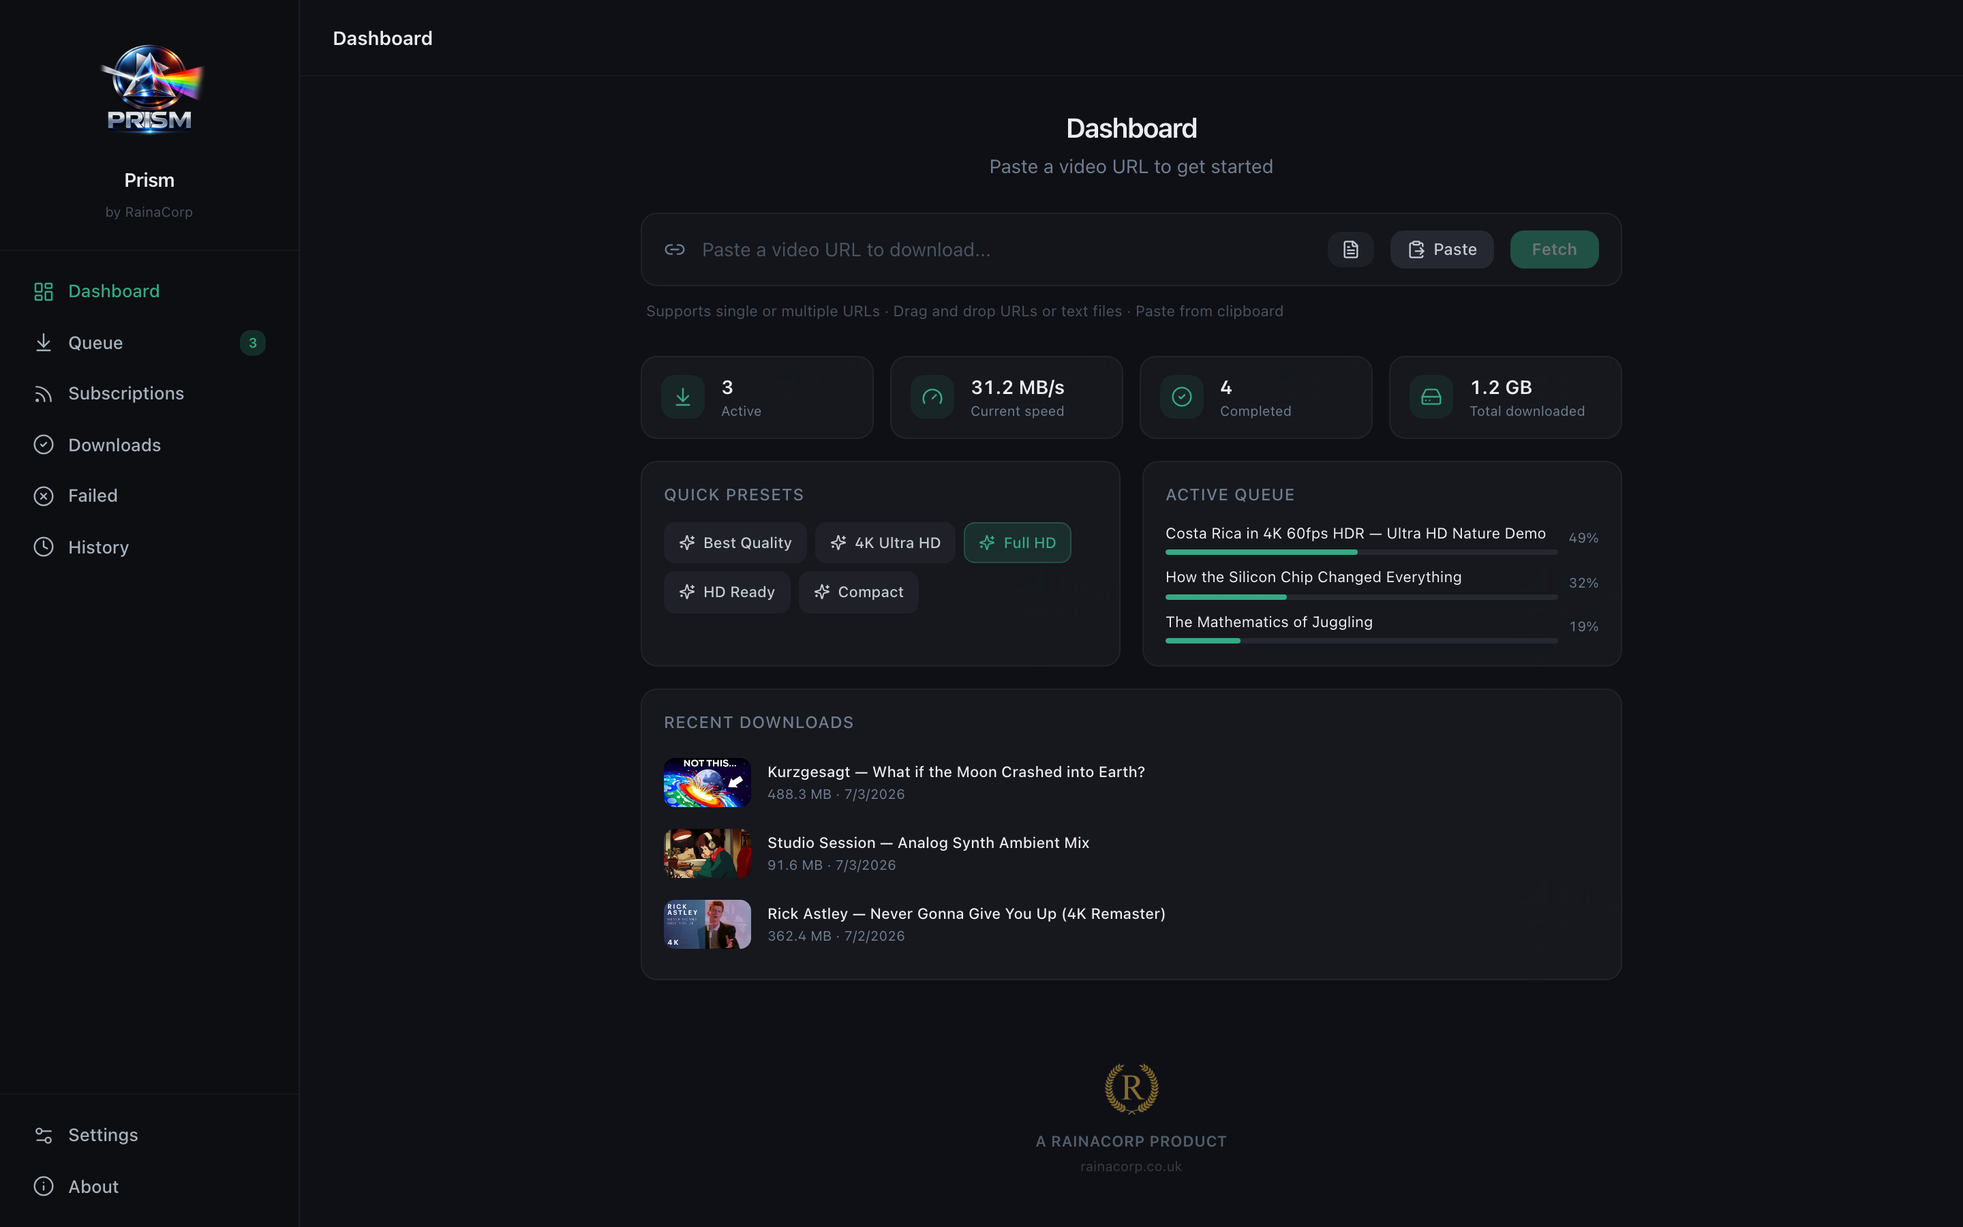
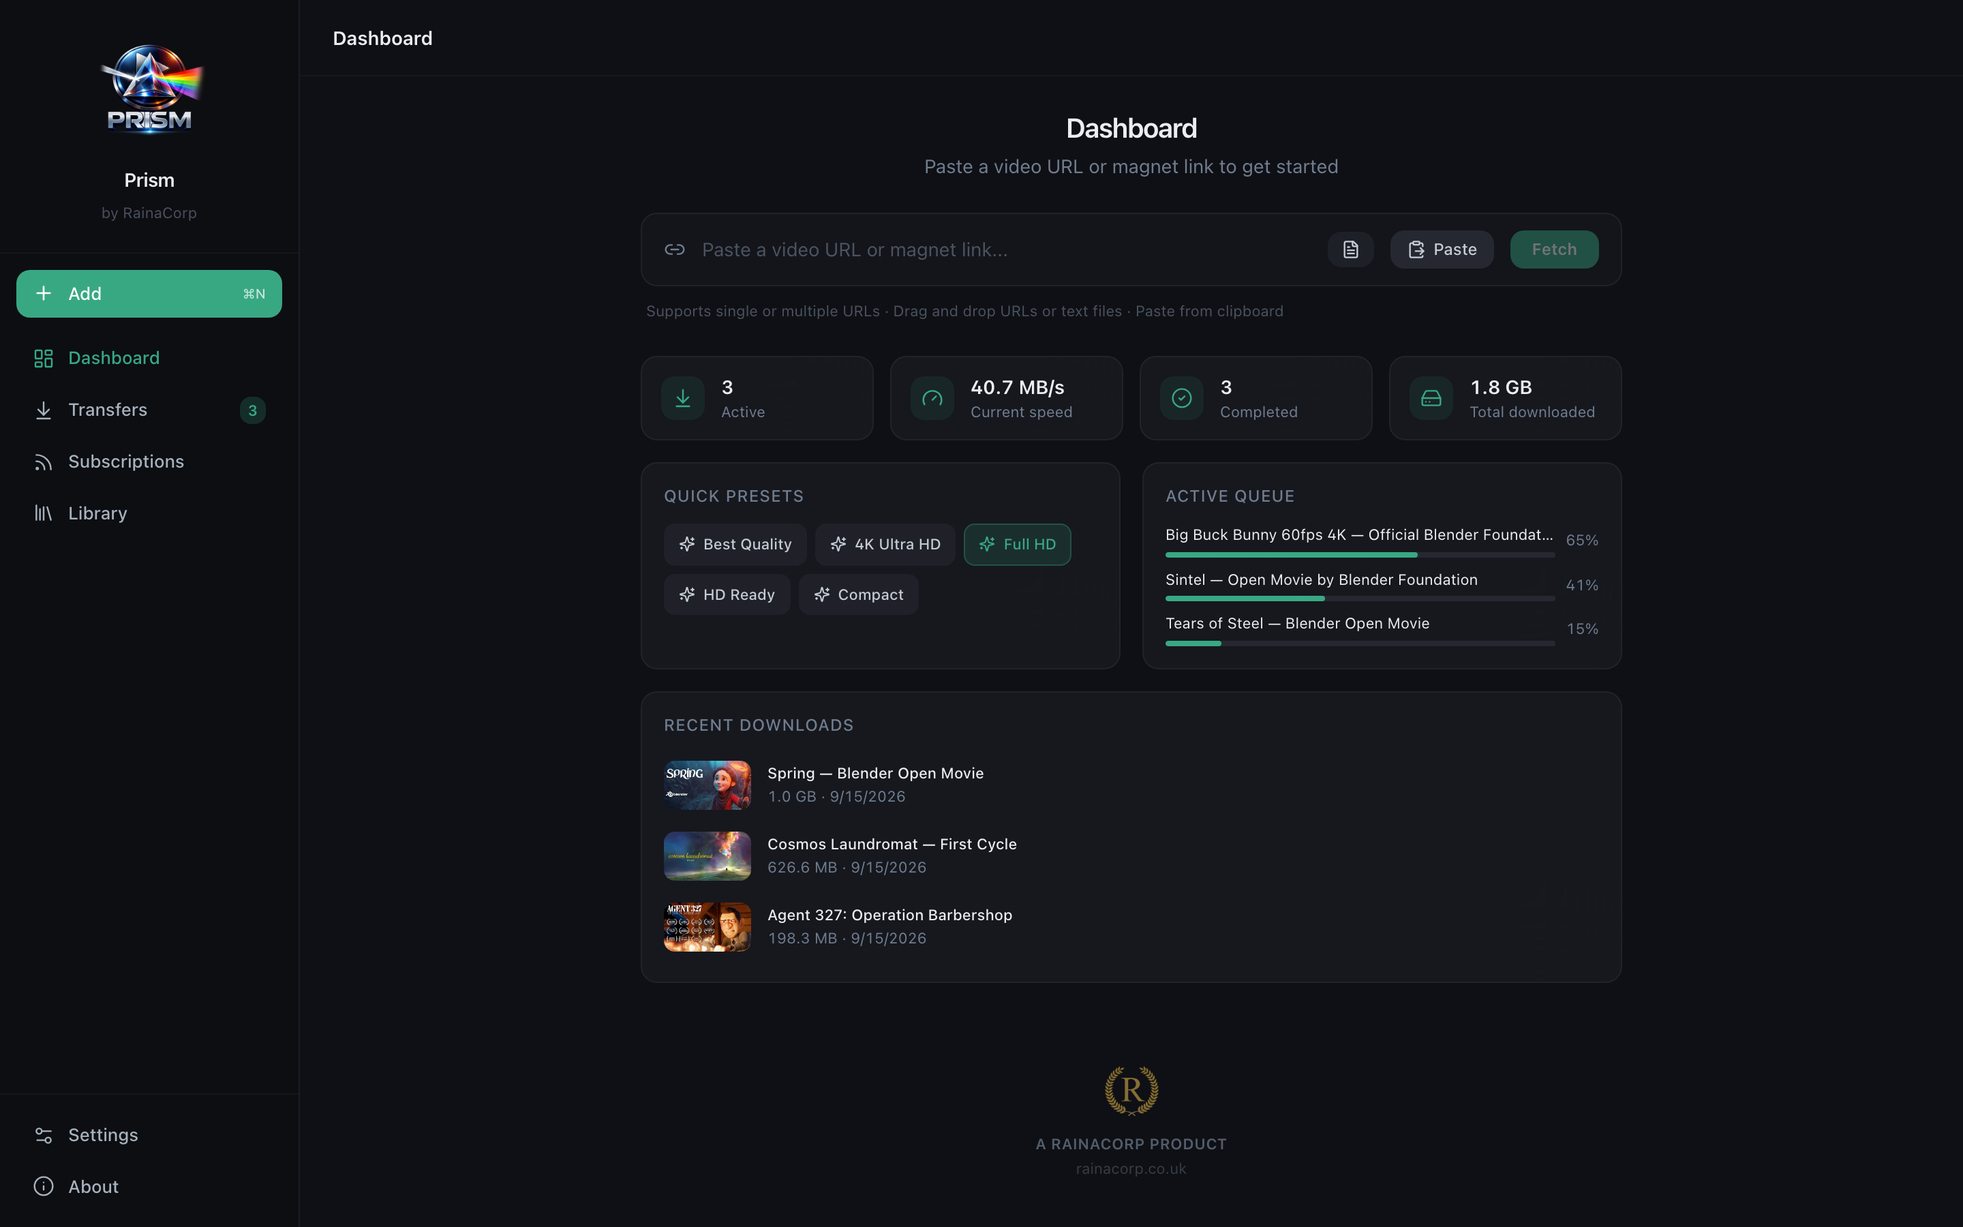
Release 1.9.0: notes, docs, screenshots, rustls advisory
- RELEASE_NOTES.md for 1.9.0; README features, test commands, security link.
- ROADMAP: v1.9 shipped; review doc statuses (S-1/2/6/7/8/9/10 fixed, S-13
  already covered, S-14 not an issue).
- README screenshots regenerated with scripts/readme-screenshots.mjs.
- rustls 0.23.44 → 0.23.45 (RUSTSEC-2026-0285).
- Version 1.9.0.

diff --git a/RELEASE_NOTES.md b/RELEASE_NOTES.md
@@ -5,46 +5,68 @@ in-app updater notes. This comment block is invisible in rendered markdown.
 -->
 ## What's New
 
-A fix release for two bugs found in real use of 1.8.0, plus a few small
-hardening items from the follow-up review (`docs/REVIEW-2026-09-14.md`).
+**Updates work again on networks that block part of GitHub.** If Settings said
+"Could not reach update server" while GitHub worked fine in your browser, the
+updater was stuck waiting on one unreachable GitHub server. It never tried the
+others. It now moves on after a few seconds, and Settings shows the real error
+if a check does fail. *Earlier versions have the bug, so download this release
+yourself* (`brew upgrade --cask prism`, or the files below). Later updates
+install from inside Prism again.
 
-**Finished downloads reach the Library again.** In 1.8.0 a download that
-completed while any other transfer was still running never moved to the
-Library — and since the Transfers page hides finished rows, it simply
-vanished. Anything stuck that way is archived on the first launch of this
-version.
+**One place to add anything.** An **Add** button sits at the top of the
+sidebar, and ⌘N or ⌘L opens it from any page. Paste video links and magnet
+links, open a `.torrent`, or import a list. You can also drop links, `.torrent`
+files or a text file of links anywhere in the window.
 
-**Multi-file torrents get their own folder.** A torrent without a root folder
-of its own (many episode and race packs) used to write its files straight into
-the download folder, so two packs with the same inner file names — for
-example `02.Race.Session.mp4` in two F1 weekends — wrote into the *same file*
-and corrupted each other. Every multi-file torrent now downloads into
-`<download folder>/<torrent name>/`, like every other client; single-file
-torrents are unchanged. Prism also refuses to add a torrent whose folder is in
-use by a different one.
+**Links from outside Prism ask first.** A `magnet:` or `prism://` link opened
+from a browser, or a `.torrent` opened from Finder or Explorer, now shows what
+it is and waits for **Add**. Nothing is fetched until you choose to. Pasting,
+the Add sheet and drag-and-drop still add straight away.
 
-> If you added multi-file torrents with 1.8.0: they will restart from scratch
-> into their new folders on relaunch. Delete the loose files they left in your
-> download folder by hand — don't use "Remove and delete files" on them, since
-> two such torrents share those files.
+**Failures tell you what to do.** A failed transfer shows the likely cause,
+the engine's own message on one line, and the fix. That's **Set browser
+cookies** for sign-in walls, or **Retry**. Link errors under the URL box and
+failed items in the Library work the same way.
 
-**Hardening.**
-- yt-dlp now runs with `--ignore-config --no-plugin-dirs`, so a config file or
-  plugin elsewhere on the machine can't change what Prism asked for.
-- "Open" and the player resolve symlinks *before* checking that a file is
-  media, so a link named `clip.mp4` can't smuggle in something else.
-- Dropping a link onto the URL box no longer submits it twice.
-- Light mode: status colours and sidebar hover states now have proper contrast.
-- Settings are written to disk 300 ms after the last change instead of on
-  every keystroke.
+**Settings, reorganised.** Settings are now grouped into Video, BitTorrent,
+Speed & schedule and Network. Rarely used torrent engine options sit behind
+"Show advanced settings". All three speed limits use MB/s. Terms like DHT,
+uTP, UPnP and share ratio are explained where they appear. New: **Use IPv4
+only** (on by default, as before).
 
-**Docs.** The README now states the ffmpeg requirement up front, and no longer
-claims an Intel macOS build (there is none; the Apple Silicon build is the
-only macOS build).
+**Quiet hours you can see.** A banner on the Dashboard and Transfers says when
+quiet hours end, and whether downloads are held or slowed. Held transfers say
+"Held for quiet hours" instead of "Waiting for a slot".
+
+**Big libraries stay fast.** The Library and the torrent and playlist pickers
+only draw the rows on screen, so thousands of entries scroll smoothly.
+
+**Accessibility.** Every setting is labelled for screen readers. The Transfers
+list works as a proper list with the keyboard, filter tabs are real tabs, and
+Reduce Motion is respected. Moving a row with its handle no longer also moves
+the selection.
+
+**Security hardening** from the September review:
+- Prism's window can only write its own settings, queue and history files.
+  The torrent session, cached `.torrent` files and the self-updated downloader
+  are out of its reach.
+- A self-updated yt-dlp is checked against the checksum recorded when it was
+  installed. *If you updated the engine in an earlier version, Prism uses the
+  bundled yt-dlp until you press **Update Engine** once more.*
+- Windows: the player loads its libraries only from Prism's own folder.
+- Limits on how many yt-dlp processes run at once and how much output Prism
+  keeps in memory.
+- System folders are blocked regardless of letter case on macOS and Windows.
+  On Linux, `~/bin` and launchers on the Desktop are blocked too.
+- Updated rustls for RUSTSEC-2026-0285.
+
+**Also:** a **Report a bug** link in About, clearer backend logs, and a smaller
+app: the logos went from 7 MB to under 100 KB, and unused interface code was
+removed.
 
 ## Install
 
-- **macOS:** `brew install --cask rajatraina747/prism/prism`, or download the
+- **macOS:** `brew install --cask rajatraina747/prism/prism` (or `brew upgrade --cask prism`), or download the
   `.dmg`. Not notarized: on macOS 15+ open the app once, then System Settings →
   Privacy & Security → **Open Anyway** (or `xattr -dr com.apple.quarantine /Applications/Prism.app`).
 - **Windows:** run the installer; click "More info → Run anyway" on the SmartScreen prompt.

diff --git a/docs/REVIEW-2026-09-14.md b/docs/REVIEW-2026-09-14.md
@@ -38,20 +38,20 @@ critical or remotely exploitable-without-user-action flaw.
 
 | # | Sev | Finding | Status |
 |---|-----|---------|--------|
-| S-1 | High (needs a webview compromise first) | librqbit `session.json` lives in `$APPDATA`, writable by the webview (`fs:allow-appdata-write-recursive`); persisted `output_folder` is re-added at startup with `overwrite: true`, bypassing the path validators. | Open (v1.9): relocate to the preference dir beside `allowed-dirs.json`, or narrow the fs capability to the four JSON files the frontend writes. |
-| S-2 | High on Windows / Medium elsewhere | Managed yt-dlp in `$APPDATA/engine` is preferred over the sidecar with no hash re-check; Windows needs no exec bit. | Open (v1.9): same relocation; re-verify SHA-256 at spawn. |
+| S-1 | High (needs a webview compromise first) | librqbit `session.json` lives in `$APPDATA`, writable by the webview (`fs:allow-appdata-write-recursive`); persisted `output_folder` is re-added at startup with `overwrite: true`, bypassing the path validators. | **Fixed 1.9.0**: the main window's fs capability allows only top-level `$APPDATA/*.json` reads and `*.json.tmp` writes/renames (no `fs:default`); enforced end to end by a mock-runtime IPC/ACL test. |
+| S-2 | High on Windows / Medium elsewhere | Managed yt-dlp in `$APPDATA/engine` is preferred over the sidecar with no hash re-check; Windows needs no exec bit. | **Fixed 1.9.0**: out of the webview's reach (S-1), and its SHA-256 is recorded at install and re-checked before use. |
 | S-3 | Medium | No `--ignore-config`/`--no-plugin-dirs` on yt-dlp calls; any config file could override the argv (`--exec`). | **Fixed 1.8.1** (`engine.rs` `LOCKDOWN_ARGS`). |
 | S-4 | Medium | `validate_open_path` canonicalised for containment but returned the original string; the media allowlist then checked a symlink's own name. | **Fixed 1.8.1** (returns the resolved path; test). |
 | S-5 | Medium | macOS libmpv/FFmpeg/x264/x265 still come from unpinned `brew install mpv` at build time. | Open: pin the bottle by SHA or ship the self-built LGPL mpv. |
-| S-6 | Medium | `magnet:` and `prism://add` deep links act with no confirmation: a web page can make Prism join a swarm or run yt-dlp with the user's cookies. | Open (v1.9): confirmation card for OS-originated links. |
-| S-7 | Medium (Windows) | Vendored mpv plugin falls back to a bare DLL name (CWD search). | Open (v1.9). |
-| S-8 | Low | No Rust-side cap on yt-dlp spawns; unbounded capture buffers. | Open (v1.9). |
-| S-9 | Low | Linux deny-list has no non-hidden entries; case-sensitive root compare. | Open (v1.9). |
-| S-10 | Low | `build.yml` `contents: write` on every job; minisign key unencrypted; no key backup/rotation doc. | Open (v1.9). |
+| S-6 | Medium | `magnet:` and `prism://add` deep links act with no confirmation: a web page can make Prism join a swarm or run yt-dlp with the user's cookies. | **Fixed 1.9.0**: OS-originated links wait on a confirmation card; nothing is fetched until Add. |
+| S-7 | Medium (Windows) | Vendored mpv plugin falls back to a bare DLL name (CWD search). | **Fixed 1.9.0**: no fallback; a missing or unloadable bundled libmpv is an error. |
+| S-8 | Low | No Rust-side cap on yt-dlp spawns; unbounded capture buffers. | **Fixed 1.9.0**: 6 lookups / 16 downloads; 64 MB stdout cap, 256 KB stderr tail. |
+| S-9 | Low | Linux deny-list has no non-hidden entries; case-sensitive root compare. | **Fixed 1.9.0**: `~/bin`, `~/Desktop/*.desktop`; case-insensitive on macOS/Windows. |
+| S-10 | Low | `build.yml` `contents: write` on every job; minisign key unencrypted; no key backup/rotation doc. | **Fixed 1.9.0** in the workflow and `docs/RELEASE-KEYS.md`; encrypting the key itself is a manual step (see that doc). |
 | S-11 | Low | `explorer /select,` built by concatenation with a torrent-controlled name. | Open. |
 | S-12 | Low | Raw yt-dlp stderr (cookie DB paths) returned verbatim as the error string. | Open. |
-| S-13 | Info | Release logs and `mpv.log` contain media paths; Privacy Policy silent on local logs. | Open (one sentence). |
-| S-14 | Info | `player` capability grants unused `dialog:default`. | Open. |
+| S-13 | Info | Release logs and `mpv.log` contain media paths; Privacy Policy silent on local logs. | Already covered: Privacy Policy → "What stays on your device" names both logs and says they can contain URLs and paths. |
+| S-14 | Info | `player` capability grants unused `dialog:default`. | Not an issue: the player window's "Open file" picker (`Player.tsx`) uses it. |
 | S-15 | Info | Updater has no downgrade protection. | Accepted. |
 
 Accepted carry-overs from September: proxy creds in argv/settings.json, PATH

diff --git a/ROADMAP.md b/ROADMAP.md
@@ -21,9 +21,9 @@ Full findings, verified against code and live data, in
 [docs/REVIEW-2026-09-14.md](docs/REVIEW-2026-09-14.md). The v1.8.1 hotfix
 (finished downloads not archived; flat multi-file torrents sharing one folder;
 yt-dlp config/plugin lockdown; symlink-safe Open; light-mode tokens; drop-once;
-settings debounce; README accuracy) is shipped. What remains, in order:
+settings debounce; README accuracy) is shipped, and so is v1.9.0 below.
 
-### v1.9 — "Trust & polish"
+### v1.9 — "Trust & polish" (shipped 1.9.0)
 
 - [x] Updater works on networks that black-hole one GitHub CDN address: the
       check/install run in Rust (`updater.rs`) with a connect timeout (hyper
@@ -56,17 +56,36 @@ settings debounce; README accuracy) is shipped. What remains, in order:
       hover) → "Set browser cookies" / Retry; failure toast carries the same
       action; parse errors under the URL box classified the same way;
       Settings opens at `?section=`.
-- [ ] UX ★: one "Add" surface (⌘N/⌘L sheet, drop-anywhere incl. magnets and
-      `.torrent`); Settings restructure (Video / BitTorrent / Speed & schedule
-      …, one speed-limit group, one unit, jargon tooltips); quiet-hours
-      banner; accessibility pass (labelled Settings controls, listbox
-      semantics, Radix tabs everywhere, reduced-motion); virtualize
-      Library/pickers and drop per-row `backdrop-filter`.
-- [ ] TypeScript `strict` + `strictNullChecks`; re-enable `no-unused-vars` /
-      `no-explicit-any`; Playwright in CI; `log::` coverage in the Rust
-      backend; `--force-ipv4` as a setting; WebP logos; prune unused
-      shadcn/Radix; refresh README screenshots; `SECURITY.md`, issue templates,
-      About → "Report a bug".
+- [x] One Add surface: sidebar button + ⌘N/⌘L sheet on every page (links,
+      magnets, "Open .torrent…", a list file); drops anywhere in the window
+      incl. `.torrent` files (bytes → `import_torrent_file` → cached magnet).
+- [x] Settings restructure: Video / BitTorrent / Speed & schedule / Network
+      as vertical Radix tabs, engine options behind "Show advanced", all
+      speed limits in MB/s, jargon help tooltips, old `?section=` aliases.
+- [x] Quiet-hours banner (Dashboard, Transfers) and "Held for quiet hours ·
+      until HH:00" on queued rows.
+- [x] Accessibility pass: every Settings control labelled/described by its
+      row; Transfers rows are listbox options with a roving tab stop; Radix
+      tabs for Transfers/Library filters; picker rows are checkboxes;
+      `prefers-reduced-motion`; reorder handle no longer also moves selection.
+- [x] Library and torrent/playlist pickers windowed past a threshold
+      (`VirtualList`, @tanstack/react-virtual); list rows drop
+      `backdrop-filter` (`surface-row`).
+- [x] TypeScript `strict`; `no-unused-vars` / `no-explicit-any` as errors;
+      Playwright (22 tests) in CI; `log::` coverage in the Rust backend;
+      "Use IPv4 only" setting; WebP logos (7.4 MB → 87 KB); 31 unused
+      shadcn components + 18 Radix packages removed; README screenshots
+      regenerated (`scripts/readme-screenshots.mjs`); `SECURITY.md` with
+      private vulnerability reporting enabled, issue templates, About →
+      "Report a bug".
+- [x] Verification added: the real capability driven through Tauri's IPC/ACL
+      (mock runtime) test; opt-in network test proving the updater's connect
+      timeout falls through a black-holed address; rustls → 0.23.45
+      (RUSTSEC-2026-0285, published the day before 1.9.0).
+
+Carried over from the review, still open: S-5 (pin Homebrew mpv), S-11
+(`explorer /select,` concatenation), S-12 (raw stderr in error strings —
+the UI now shows a one-line summary, the full text is still returned).
 
 ### v2.0 — "Download manager"
 
@@ -293,11 +312,10 @@ Everything below the line shipped in **v1.8.0**; what's left is open.
   carrying GPL x264/x265/rubberband (the player only decodes; nothing is
   lost). Until then the macOS binary is distributed under GPL-2.0-or-later
   terms with license texts + Homebrew source pointers shipped in-app.
-- [ ] Virtualize/paginate the Library once histories get long (2,000-row cap
-  today).
+- [x] Virtualize the Library (1.9.0; the 2,000-row history cap stays).
 - [ ] Spawn yt-dlp in its own process group (`tokio::process` +
   `process_group`) instead of the `ps`-snapshot tree kill.
-- [ ] Run the Playwright suite in CI against the web demo.
+- [x] Run the Playwright suite in CI against the web demo (1.9.0).
 
 ## Explicitly deferred
 

diff --git a/README.md b/README.md
@@ -32,15 +32,16 @@
 - **Built-in player (macOS & Windows)** — Play any download inside Prism, powered by embedded mpv: every codec and container, true HDR on HDR displays, multichannel audio, subtitle/audio track switching. Plays individual files inside torrents too.
 - **Multi-format quality selection** — Choose between 4K, 1080p, 720p, or 480p — and the resolution you pick is what you get, with a warning if a site delivers less.
 - **BitTorrent downloads** — Paste a magnet link or `.torrent` file and download it in the same queue as your videos. Pick which files to grab, watch peers and share ratio live, and control seeding (stop at 100%, seed to ratio 1.0, or seed until you stop). UPnP port forwarding for peers behind a router; Quiet Hours throttles torrents too.
-- **Download queue** — True pause/resume (picks up partial files where they left off), cancel, retry, drag-to-reorder. Configurable concurrent downloads and bandwidth limits.
-- **Quiet hours** — Hold or throttle downloads during part of the day; full speed the rest of the time.
+- **One place to add anything** — The Add button (⌘N / ⌘L from any page) takes video links, magnets, `.torrent` files and lists of links; or drop any of them anywhere in the window. Links opened from your browser ask before Prism fetches anything.
+- **Download queue** — True pause/resume (picks up partial files where they left off), cancel, retry, drag-to-reorder, full keyboard control. Configurable concurrent downloads and speed limits.
+- **Quiet hours** — Hold or throttle downloads during part of the day, with a banner saying until when; full speed the rest of the time.
 - **Self-updating engine** — Update the bundled yt-dlp from Settings when sites change, no app update needed.
 - **Batch downloads** — Paste multiple URLs at once or import entire playlists with per-video selection.
-- **Resilient by default** — Automatic retries with backoff on network failures, disk-space checks before starting, and clear, actionable error messages (sign-in walls, removed videos, geo locks, rate limits).
+- **Resilient by default** — Automatic retries with backoff on network failures, disk-space checks before starting, and failures that say what happened and offer the fix (sign-in walls → browser cookies, removed videos, geo locks, rate limits).
 - **Browser cookie support** — Use cookies from Safari, Chrome, Firefox, Edge, or Brave for sign-in-required and age-restricted videos.
 - **Rich media files** — Thumbnails, metadata, and chapter markers embedded in downloads.
 - **SponsorBlock** — Optionally mark sponsor segments as chapters or cut them out entirely, using crowd-sourced data.
-- **Download history** — Searchable log of every download with one-click replay.
+- **Library** — Searchable record of every download with one-click replay; stays fast with thousands of entries.
 - **Subscriptions** — Watch channels and playlists; new videos are queued automatically on a configurable interval.
 - **Clipboard auto-detect** — Copy a video URL, focus Prism, and get a one-click fetch prompt.
 - **Menu bar quick-add** — Tray icon with Paste & Download; drag a URL onto the window to fetch it.
@@ -145,7 +146,12 @@ npm run dev
 npm run dev:tauri
 
 # Run tests
-npm test
+npm test                 # unit & component (Vitest)
+npx playwright test      # end-to-end against the web demo
+cd src-tauri && cargo test --lib
+
+# Regenerate the README screenshots (with `npm run dev` running)
+node scripts/readme-screenshots.mjs
 
 # Production build (desktop)
 npm run build:tauri
@@ -170,6 +176,9 @@ upstream releases, run `scripts/update-sidecars.sh`, review the lockfile diff, a
 - `RELEASE_NOTES.md` is the release body — update it *before* tagging.
 - The npm `@tauri-apps/api` and Rust `tauri` crate must be on the same minor.
 - After the release is published, bump the Homebrew cask in `rajatraina747/homebrew-prism`.
+- The updater signing key: backup, encryption and rotation are in [`docs/RELEASE-KEYS.md`](docs/RELEASE-KEYS.md).
+
+Found a security issue? See [SECURITY.md](SECURITY.md) — please report it privately.
 
 ## Project Structure
 
